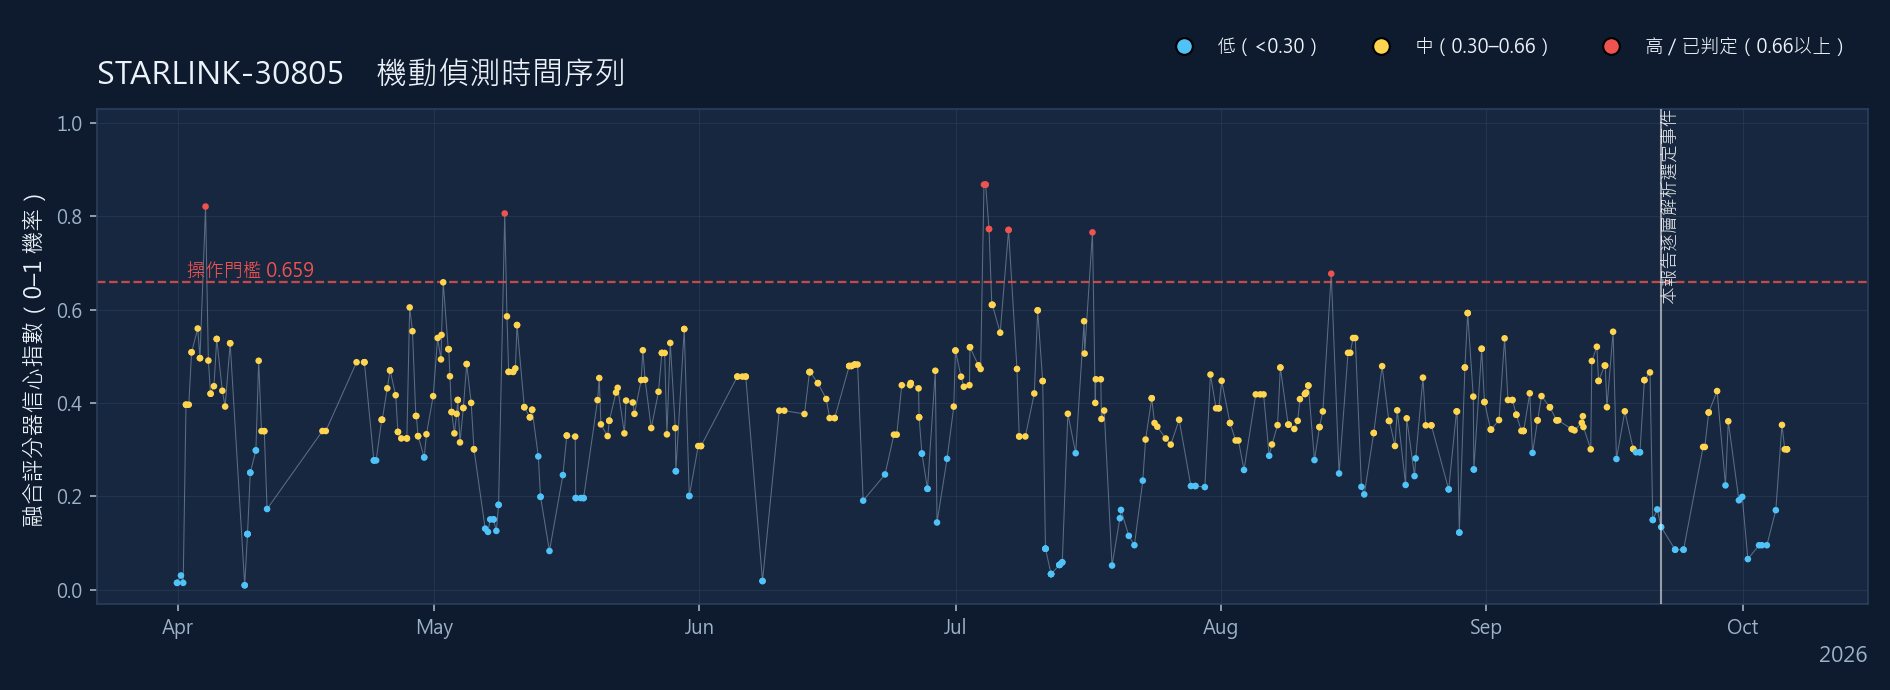
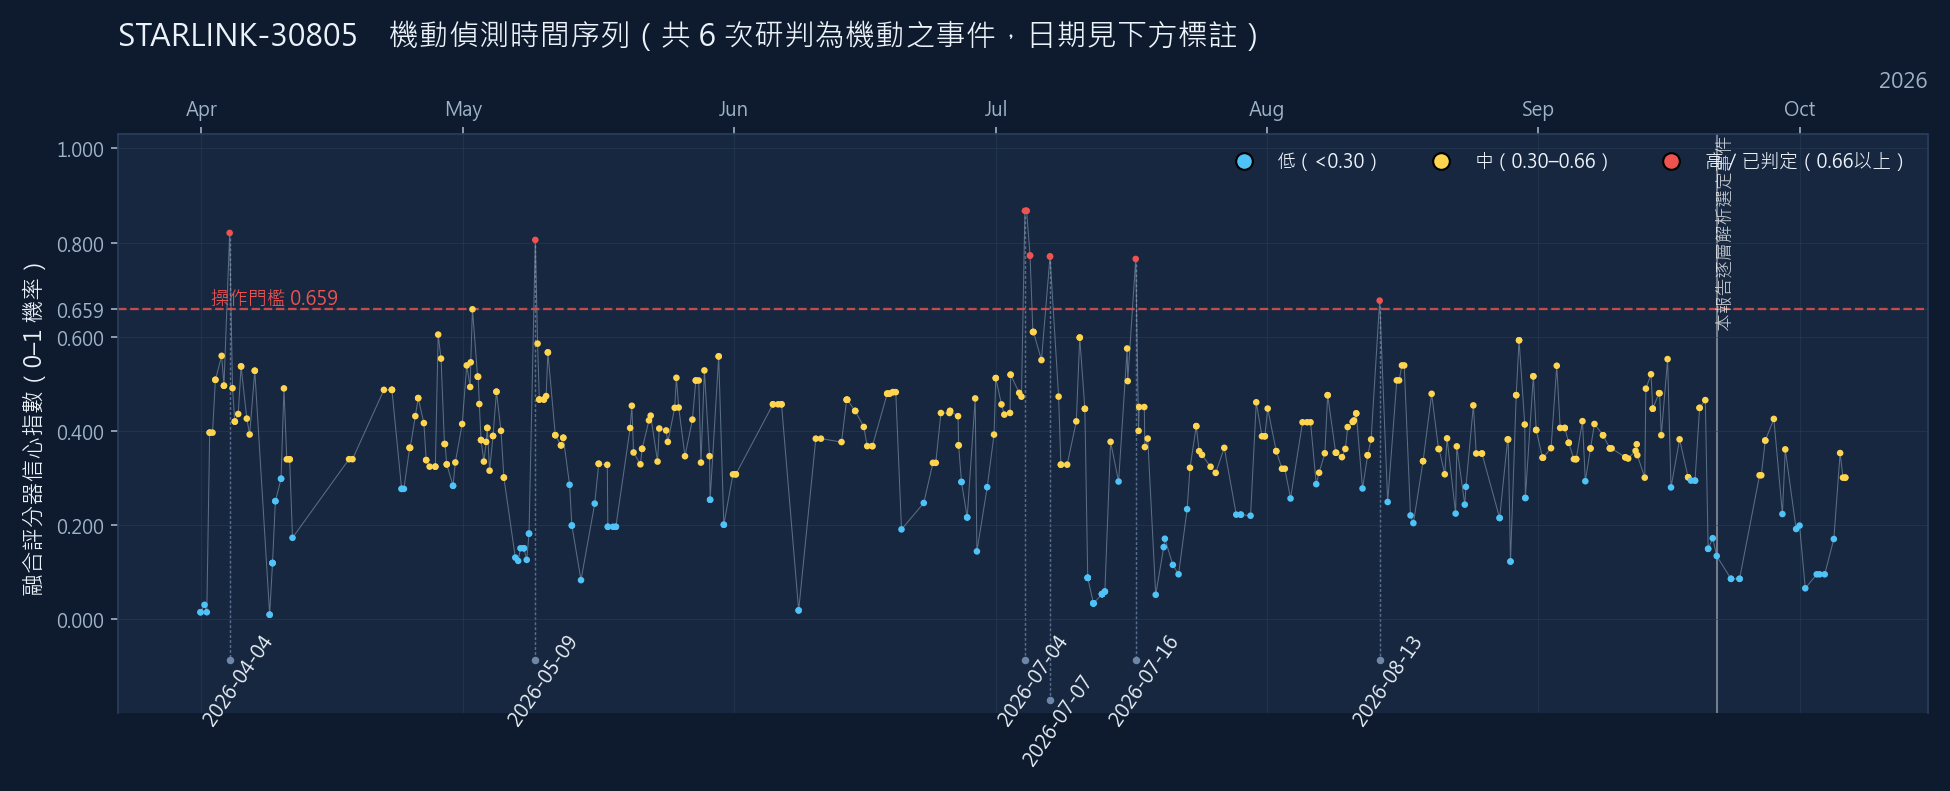
docs(final): 時間序列圖直接標註研判為機動之日期（連結線+車道避讓排版）
依使用者指示，將日期清單從獨立投影片改為直接標在時間序列圖下方並以虛線連結至
對應的資料點，取代/補充純文字清單：
- 事件合併規則與判定門檻同前（48小時內合併為一事件、融合>=0.659或阻力殘差>0.30km）
- 貪婪演算法自動分配標籤車道，避免日期相近時文字重疊；車道數隨事件密度自動增加
  (太空站46事件4車道、JASON-3 17事件6車道因早期事件密集)
- 圖表高度隨車道數自動增高，維持可讀性
- 既有的獨立清單投影片(§研判為機動之日期清單)保留不動，作為精確數值查核用途，
  與圖表標註互補而非取代

diff --git a/docs/gen_case_study_timeseries_figs.py b/docs/gen_case_study_timeseries_figs.py
@@ -1,7 +1,7 @@
 # -*- coding: utf-8 -*-
 """gen_case_study_timeseries_figs.py — 為案例研究簡報產生 10 顆衛星的機動偵測時間序列圖
 輸入：data/benchmark/case_study_timeseries_20261007/{norad}_{fusion|drag}.csv
-      （由 E:/Temp 下 timeseries10.py 批次算出；Starlink 為融合評分器機率序列，
+      （由 timeseries10.py 批次算出；Starlink 為融合評分器機率序列，
       非 Starlink 為 NRLMSIS 阻力殘差序列）
 輸出：docs/case_study_figs/{norad}_timeline.png（深色主題，供簡報直接嵌入）
 
@@ -11,6 +11,12 @@
   - 非 Starlink（其餘 7 顆）：Model 2／NRLMSIS 並無校準機率，y 軸改標
     「阻力殘差量級（公里，對數座標）」，依量級分級上色，不冠以「信心指數」之名，
     避免誤導為機率。
+
+研判為機動之日期標註（2026-10-07 新增）：
+  連續 48 小時內的判定點合併為同一事件（episode，與全專案 episode 定義一致），
+  取事件內峰值所在時刻為代表點，於圖下方以「日期標籤 + 連結線」標出，並以貪婪
+  演算法將標籤分配到多個橫向車道（lane），避免日期相近時彼此重疊。事件數較多
+  （如太空站）時車道數會自動增加、字體自動縮小，仍逐一標出而不省略。
 """
 import sys
 from pathlib import Path
@@ -20,8 +26,6 @@ import matplotlib
 matplotlib.use("Agg")
 import matplotlib.pyplot as plt
 import matplotlib.dates as mdates
-from matplotlib.collections import LineCollection
-from matplotlib.colors import LinearSegmentedColormap
 
 try:
     sys.stdout.reconfigure(encoding="utf-8")
@@ -44,6 +48,7 @@ OUTDIR.mkdir(exist_ok=True)
 BG = "#0E1B2E"; PANEL = "#16273F"; GRID = "#2A3F5C"
 INK = "#ECF2F9"; MUTE = "#9FB3C8"
 C_LOW = "#4FC3F7"; C_MID = "#FFD54F"; C_HIGH = "#EF5350"
+LEADER = "#6E86A8"
 
 SATS = [
     ("FORMOSAT-5（福衛五號）", 42920, "drag"),
@@ -88,15 +93,77 @@ def color_for(val, kind):
         return C_LOW
 
 
+def merge_episodes(df, kind):
+    """合併連續 <=48h 之判定點為事件，回傳每事件的代表點 (x_num, y_for_plot, raw_val, date_str)。"""
+    if kind == "fusion":
+        thr = float(df["thr"].iloc[0]) if "thr" in df.columns else 0.659
+        flagged = df[df["fusion"] >= thr].copy()
+        flagged["val"] = flagged["fusion"]
+        flagged["yplot"] = flagged["fusion"]
+    else:
+        reentry = bool(df["reentry"].iloc[0]) if "reentry" in df.columns else False
+        flagged = df[df["drag_resid_da"].abs() > 0.30].copy() if not reentry else df.iloc[0:0].copy()
+        flagged["val"] = flagged["drag_resid_da"].abs()
+        flagged["yplot"] = np.log10(np.clip(flagged["val"].to_numpy(), 1e-3, None))
+    if flagged.empty:
+        return []
+    flagged = flagged.sort_values("epoch").reset_index(drop=True)
+    episodes = []
+    cur_idx = [0]
+    for i in range(1, len(flagged)):
+        gap_h = (flagged["epoch"].iloc[i] - flagged["epoch"].iloc[cur_idx[-1]]).total_seconds() / 3600
+        if gap_h <= 48:
+            cur_idx.append(i)
+        else:
+            episodes.append(cur_idx); cur_idx = [i]
+    episodes.append(cur_idx)
+    reps = []
+    for idxs in episodes:
+        sub = flagged.iloc[idxs]
+        peak_row = sub.loc[sub["val"].idxmax()]
+        reps.append({"epoch": peak_row["epoch"], "yplot": float(peak_row["yplot"]),
+                     "val": float(peak_row["val"])})
+    return reps
+
+
+def assign_lanes(reps, xmin, xmax, max_lanes=8):
+    """貪婪分配標籤車道：同車道內日期間隔需 >= min_gap，避免水平重疊。"""
+    span_days = max((xmax - xmin).days, 1)
+    min_gap = max(span_days * 0.016, 0.6)
+    items = sorted(reps, key=lambda r: r["epoch"])
+    lane_last = []  # 每車道最後放置的時間
+    for it in items:
+        placed = False
+        for li, last in enumerate(lane_last):
+            if (it["epoch"] - last).total_seconds() / 86400 >= min_gap:
+                lane_last[li] = it["epoch"]; it["lane"] = li; placed = True; break
+        if not placed:
+            if len(lane_last) < max_lanes:
+                lane_last.append(it["epoch"]); it["lane"] = len(lane_last) - 1
+            else:
+                # 找重疊最少的車道，容許些微重疊而非捨棄資料
+                gaps = [(it["epoch"] - last).total_seconds() for last in lane_last]
+                li = int(np.argmax(gaps))
+                lane_last[li] = it["epoch"]; it["lane"] = li
+    return items, len(lane_last)
+
+
 def plot_one(title, nid, kind):
     f = TSDIR / f"{nid}_{kind}.csv"
     if not f.exists():
         print("MISSING", f); return False
-    df = pd.read_csv(f, parse_dates=["epoch"])
+    df = pd.read_csv(f)
     if df.empty:
         print("EMPTY", f); return False
+    df["epoch"] = pd.to_datetime(df["epoch"], utc=True, format="mixed")
 
-    fig, ax = plt.subplots(figsize=(12.6, 4.6), dpi=150)
+    reps = merge_episodes(df, kind)
+    xmin_ts, xmax_ts = df["epoch"].min(), df["epoch"].max()
+    reps, n_lanes = assign_lanes(reps, xmin_ts, xmax_ts, max_lanes=8)
+    n_lanes = max(n_lanes, 1)
+
+    fig_h = 4.6 + 0.34 * n_lanes
+    fig, ax = plt.subplots(figsize=(13.0, fig_h), dpi=150)
     fig.patch.set_facecolor(BG); ax.set_facecolor(PANEL)
 
     if kind == "fusion":
@@ -109,8 +176,19 @@ def plot_one(title, nid, kind):
         ax.axhline(thr, color=C_HIGH, linestyle="--", linewidth=1.1, alpha=0.8)
         ax.text(x[0] if len(x) else 0, thr, f"  操作門檻 {thr:.3f}", color=C_HIGH,
                 fontsize=9, va="bottom")
-        ax.set_ylim(-0.03, 1.03)
+        y_top = 1.03
+        lane_unit = 0.085
+        y_bottom = -0.03 - lane_unit * n_lanes
+        ax.set_ylim(y_bottom, y_top)
+        ax.set_yticks([0, 0.2, 0.4, 0.6, 0.659, 0.8, 1.0])
         ax.set_ylabel("融合評分器信心指數（0–1 機率）", color=INK, fontsize=11)
+        axis_zero = -0.03
+
+        def lane_y(li):
+            return -0.03 - lane_unit * (li + 1)
+
+        def fmt_val(v):
+            return f"{v:.2f}"
     else:
         y = df["drag_resid_da"].abs().to_numpy()
         x = df["epoch"].to_numpy()
@@ -119,39 +197,69 @@ def plot_one(title, nid, kind):
         yplot = np.log10(np.clip(y, 1e-3, None))
         ax.scatter(x, yplot, c=cols, s=10, zorder=3, edgecolors="none")
         ax.plot(x, yplot, color=MUTE, linewidth=0.5, alpha=0.5, zorder=2)
-        for lv, lab in [(np.log10(0.30), "0.30 km"), (np.log10(2.0), "2 km")]:
+        for lv in (np.log10(0.30), np.log10(2.0)):
             ax.axhline(lv, color=MUTE, linestyle=":", linewidth=0.9, alpha=0.6)
         ax.set_ylabel("阻力殘差量級｜Δa 殘差絕對值（km，log10 座標）", color=INK, fontsize=10.5)
-        yt = [-2, -1, 0, 1, 2, 3, 4]
+        y_data_min = float(np.nanmin(yplot)); y_data_max = float(np.nanmax(yplot))
+        yt_lo, yt_hi = int(np.floor(y_data_min)), int(np.ceil(y_data_max))
+        yt = list(range(yt_lo, yt_hi + 1))
         ax.set_yticks(yt); ax.set_yticklabels([f"{10**v:g}" for v in yt])
+        lane_unit = (y_data_max - yt_lo + 0.4) / 10 + 0.42
+        axis_zero = yt_lo - 0.15
+        y_bottom = axis_zero - lane_unit * n_lanes
+        ax.set_ylim(y_bottom, y_data_max + 0.5)
+
+        def lane_y(li):
+            return axis_zero - lane_unit * (li + 1)
+
+        def fmt_val(v):
+            return f"{v:.2f}km"
+
         note = "（此星為軌道轉移段，數值量級超出近圓軌道模型假設，詳見報告）" if nid == 100270 else \
                ("（偵測到自然再入衰減模式，物理閘門已抑制機動判定）" if reentry else "")
         if note:
-            ax.text(0.01, 0.97, note, transform=ax.transAxes, color=C_MID,
+            ax.text(0.01, 0.98, note, transform=ax.transAxes, color=C_MID,
                      fontsize=9, va="top", ha="left")
+
+    # ── 研判為機動之日期標籤（連結線 + 車道避讓）──────────────────────────
+    small_font = 7.6 if len(reps) > 20 else (8.3 if len(reps) > 10 else 9.2)
+    date_fmt = "%Y-%m-%d" if len(reps) <= 14 else "%m-%d"
+    for r in reps:
+        xd = r["epoch"]
+        ly = lane_y(r["lane"])
+        ax.plot([xd, xd], [r["yplot"], ly + lane_unit * 0.32], color=LEADER,
+                 linewidth=0.7, alpha=0.75, zorder=1, linestyle=(0, (2, 1.4)))
+        label = xd.strftime(date_fmt)
+        ax.text(xd, ly, label, color=INK, fontsize=small_font, ha="center", va="top",
+                rotation=55, rotation_mode="anchor", zorder=5)
+        ax.plot([xd], [ly + lane_unit * 0.32], marker="o", markersize=2.6,
+                 color=LEADER, zorder=4)
 
     ev = EVENT_EPOCH.get(nid)
     xmin, xmax = pd.Timestamp(x.min()), pd.Timestamp(x.max())
     if ev:
         evt = pd.Timestamp(ev, tz="UTC")
         if xmin <= evt <= xmax:
-            ax.axvline(evt, color="#FFFFFF", linestyle="-", linewidth=1.0, alpha=0.55, zorder=4)
+            ax.axvline(evt, color="#FFFFFF", linestyle="-", linewidth=1.0, alpha=0.4, zorder=0)
             ax.text(evt, ax.get_ylim()[1], "  本報告逐層解析選定事件", color="#FFFFFF",
-                    fontsize=8.5, va="top", rotation=90, alpha=0.85)
+                    fontsize=8.5, va="top", rotation=90, alpha=0.75)
         else:
-            ax.text(0.99, 0.03,
+            ax.text(0.99, 0.90,
                      f"（本報告逐層解析選定事件為 {evt.date()}，早於本圖資料起點，未顯示）",
-                     transform=ax.transAxes, color=MUTE, fontsize=8.5, ha="right", va="bottom")
+                     transform=ax.transAxes, color=MUTE, fontsize=8.5, ha="right", va="top")
 
-    ax.set_title(f"{title}　機動偵測時間序列", color=INK, fontsize=15, pad=12, loc="left")
+    ax.set_title(f"{title}　機動偵測時間序列（共 {len(reps)} 次研判為機動之事件，日期見下方標註）",
+                  color=INK, fontsize=14.5, pad=12, loc="left")
     ax.tick_params(colors=MUTE, labelsize=9)
     for spine in ax.spines.values():
         spine.set_color(GRID)
-    ax.grid(True, color=GRID, linewidth=0.5, alpha=0.6)
+    ax.grid(True, color=GRID, linewidth=0.5, alpha=0.5)
     ax.xaxis.set_major_locator(mdates.AutoDateLocator(minticks=5, maxticks=9))
     ax.xaxis.set_major_formatter(mdates.ConciseDateFormatter(ax.xaxis.get_major_locator()))
+    ax.xaxis.set_label_position("top")
+    ax.xaxis.tick_top()
+    ax.spines["bottom"].set_visible(False)
 
-    # legend
     from matplotlib.lines import Line2D
     if kind == "fusion":
         items = [("低（<0.30）", C_LOW), ("中（0.30–0.66）", C_MID), ("高／已判定（0.66以上）", C_HIGH)]
@@ -159,14 +267,14 @@ def plot_one(title, nid, kind):
         items = [("低（<0.30km）", C_LOW), ("中（0.30–2km）", C_MID), ("高（2km以上）", C_HIGH)]
     handles = [Line2D([0], [0], marker="o", color="none", markerfacecolor=c, markersize=8, label=l)
                for l, c in items]
-    leg = ax.legend(handles=handles, loc="upper right", frameon=False, fontsize=9,
-                     labelcolor=INK, ncol=3, bbox_to_anchor=(1.0, 1.18))
+    ax.legend(handles=handles, loc="upper right", frameon=False, fontsize=9,
+              labelcolor=INK, ncol=3, bbox_to_anchor=(1.0, 1.0))
 
     fig.tight_layout()
     out = OUTDIR / f"{nid}_timeline.png"
     fig.savefig(out, facecolor=BG)
     plt.close(fig)
-    print("saved", out, len(df), "pts")
+    print("saved", out, len(df), "pts,", len(reps), "labeled events,", n_lanes, "lanes")
     return True
 
 
